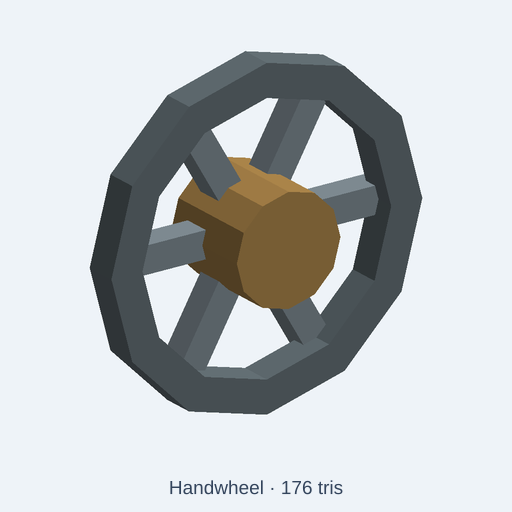
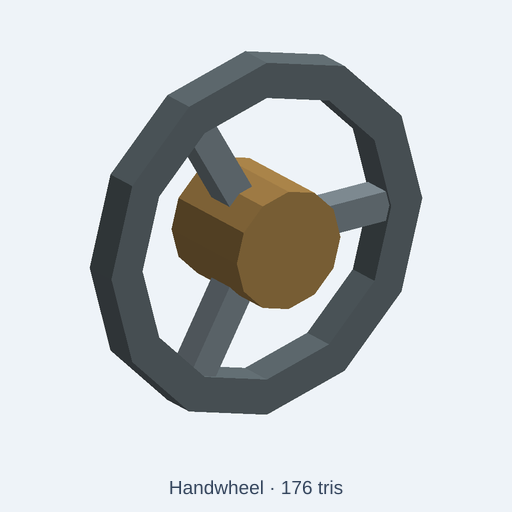
fix(catalog): model three radial handwheel spokes (#1352)

diff --git a/tests/integration/catalog/handwheelFidelity.test.ts b/tests/integration/catalog/handwheelFidelity.test.ts
@@ -1,0 +1,126 @@
+// SPDX-License-Identifier: MIT
+// Count actual radial spokes and verify each joins the hub and rim.
+// Three centered diametral bars are six spokes, not three.
+import { beforeAll, describe, expect, it } from 'vitest';
+import { readFileSync } from 'node:fs';
+import { resolve } from 'node:path';
+import { NodeIO } from '@gltf-transform/core';
+import { initOcct } from '../../../src/kernel/backends/occt/occtBackend';
+import { buildCatalogAssetWithGlb } from '../../../src/agent/catalog/buildCatalog';
+import { runAndExport } from '../../../src/agent/script-runtime/export';
+
+type V = [number, number, number];
+type Tri = [V, V, V];
+const root = resolve(import.meta.dirname, '../../..');
+const sourcePath = 'catalog/kits/standard-components/handwheel.kcad.ts';
+const sub = (a: V, b: V): V => [a[0]-b[0], a[1]-b[1], a[2]-b[2]];
+const dot = (a: V, b: V) => a[0]*b[0]+a[1]*b[1]+a[2]*b[2];
+const cross = (a: V, b: V): V => [a[1]*b[2]-a[2]*b[1], a[2]*b[0]-a[0]*b[2], a[0]*b[1]-a[1]*b[0]];
+function rayHits(tris: Tri[], start: V, direction: V): boolean {
+  return tris.some(tri => {
+    const edge1=sub(tri[1],tri[0]), edge2=sub(tri[2],tri[0]);
+    const p=cross(direction,edge2), determinant=dot(edge1,p);
+    if(Math.abs(determinant)<1e-9)return false;
+    const t=sub(start,tri[0]), u=dot(t,p)/determinant, q=cross(t,edge1);
+    const v=dot(direction,q)/determinant, distance=dot(edge2,q)/determinant;
+    return u>=-1e-7&&v>=-1e-7&&u+v<=1+1e-7&&distance>1e-6&&distance<200;
+  });
+}
+async function readMeshes(glb: Uint8Array, scale: number): Promise<Map<string,Tri[]>> {
+  // Low-poly positions are authored millimetres before scene-axis conversion.
+  const doc=await new NodeIO().readBinary(glb), parts=new Map<string,Tri[]>();
+  for(const node of doc.getRoot().listNodes()) {
+    const mesh=node.getMesh(); if(!mesh)continue;
+    const tris:Tri[]=[];
+    for(const primitive of mesh.listPrimitives()) {
+      const pos=primitive.getAttribute('POSITION')!, indices=primitive.getIndices();
+      const count=indices?indices.getCount():pos.getCount();
+      for(let i=0;i<count;i+=3)tris.push([0,1,2].map(k=>
+        pos.getElement(indices?indices.getScalar(i+k):i+k,[]).map(v=>v/scale) as V
+      ) as Tri);
+    }
+    parts.set(node.getName(),tris);
+  }
+  return parts;
+}
+function components(tris: Tri[]): number {
+  const parent=new Map<string,string>();
+  const find=(key:string):string=>{const p=parent.get(key)!;if(p===key)return key;const r=find(p);parent.set(key,r);return r;};
+  for(const tri of tris) {
+    const keys=tri.map(v=>v.map(x=>x.toFixed(4)).join(','));
+    for(const key of keys)if(!parent.has(key))parent.set(key,key);
+    for(const key of keys.slice(1))parent.set(find(key),find(keys[0]));
+  }
+  return new Set([...parent.keys()].map(find)).size;
+}
+function sample(parts: Map<string,Tri[]>, angle: number, radius: number): boolean {
+  const theta = angle*Math.PI/180;
+  return rayHits([...parts.values()].flat(), [radius*Math.cos(theta),-20,30-radius*Math.sin(theta)],[0,1,0]);
+}
+function verify(parts: Map<string,Tri[]>): void {
+  expect(parts.size).toBe(5);
+  expect([...parts.keys()].filter(name=>name.startsWith('spoke-')).sort()).toEqual(['spoke-0','spoke-120','spoke-240']);
+  const rim = parts.get('rim')!, hub = parts.get('hub')!;
+  expect(rim).toBeDefined(); expect(hub).toBeDefined();
+  expect(components(rim)).toBe(1); expect(components(hub)).toBe(1);
+  for (const angle of [0,120,240]) {
+    const spoke=parts.get(`spoke-${angle}`)!;
+    expect(components(spoke), 'each spoke is one connected solid').toBe(1);
+    const theta=angle*Math.PI/180;
+    for (const radius of [8,16,25]) {
+      const from:V=[radius*Math.cos(theta),-20,30-radius*Math.sin(theta)];
+      expect(rayHits(spoke,from,[0,1,0]),`radial spoke ${angle} reaches radius ${radius}`).toBe(true);
+      if(radius===8)expect(rayHits(hub,from,[0,1,0]),'real radial hub overlap').toBe(true);
+      if(radius===25)expect(rayHits(rim,from,[0,1,0]),'real radial rim overlap').toBe(true);
+    }
+    const ys=spoke.flat().map(v=>v[1]);
+    expect(Math.min(...ys), 'spokes centered axially within rim').toBeCloseTo(-2.5,3);
+    expect(Math.max(...ys)).toBeCloseTo(2.5,3);
+    const volume=Math.abs(spoke.reduce((sum,t)=>sum+dot(t[0],cross(t[1],t[2]))/6,0));
+    expect(volume,'22 x 5 x 5 nominal spoke').toBeCloseTo(550,1);
+  }
+  for (const angle of [60,180,300]) expect(sample(parts,angle,16),`open gap at ${angle} degrees`).toBe(false);
+  const points=[...parts.values()].flat().flat();
+  for (const [axis,lo,hi] of [[0,-30,30],[1,-9,9],[2,0,60]] as const) {
+    expect(Math.min(...points.map(p=>p[axis]))).toBeCloseTo(lo,3);
+    expect(Math.max(...points.map(p=>p[axis]))).toBeCloseTo(hi,3);
+  }
+  // Keep the explicitly labelled hub envelope; do not claim a mounting bore.
+  expect(sample(parts,0,0),'solid hub matches the stated envelope limitation').toBe(true);
+}
+beforeAll(async()=>{await initOcct();},30000);
+describe('illustrative handwheel spoke identity',()=>{
+  for(const [size,scale] of [['standard',1],['compact',0.75],['large',1.25]] as const) {
+    it(`${size}: exactly three radial spokes join the hub and rim`,async()=>{
+      const source=readFileSync(resolve(root,sourcePath),'utf8');
+      const built=await buildCatalogAssetWithGlb(root,sourcePath);
+      const code=source.replace("param('size', 'standard'",`param('size', '${size}'`);
+      const exported=size==='standard'?{bytes:built.glb,diagnostics:[]}:await runAndExport({
+        code,fileName:'handwheel.kcad.ts',scriptDir:resolve(root,'catalog/kits/standard-components'),
+        format:'glb',options:{format:'glb',style:'lowpoly',lowpoly:{maxTriangles:built.asset.triangleBudget}},
+      });
+      expect(exported.diagnostics.filter(d=>d.severity==='error')).toEqual([]);
+      verify(await readMeshes(exported.bytes,scale));
+      expect(built.asset.description).toMatch(/illustrative CC0/i);
+      expect(built.asset.description).toMatch(/three-spoke/i);
+      expect(built.asset.description).toMatch(/no shaft bore/i);
+      expect(built.asset.description).toMatch(/not manufacturer-grade/i);
+      expect(built.asset.stats.triangles).toBeLessThanOrEqual(built.asset.triangleBudget);
+      expect(built.asset.stats.minUpM).toBeCloseTo(0,6);
+    },60000);
+  }
+  it('negative control: the original diametral bars fill all six radial positions',async()=>{
+    const source=readFileSync(resolve(root,sourcePath),'utf8')
+      .replace('[0,120,240]','[0,60,120]')
+      .replace('box(22*s,5*s,5*s,true).translate(16*s,0,0).rotateY(angle).translate(0,0,30*s)',
+        'box(52*s,5*s,5*s,true).rotateY(angle).translate(0,3*s,30*s)');
+    const exported=await runAndExport({code:source,fileName:'original-handwheel.kcad.ts',
+      scriptDir:resolve(root,'catalog/kits/standard-components'),format:'glb',
+      options:{format:'glb',style:'lowpoly',lowpoly:{maxTriangles:340}},
+    });
+    expect(exported.diagnostics.filter(d=>d.severity==='error')).toEqual([]);
+    const parts=await readMeshes(exported.bytes,1);
+    for(const angle of [0,60,120,180,240,300])expect(sample(parts,angle,16)).toBe(true);
+    expect(()=>verify(parts)).toThrow();
+  },60000);
+});

diff --git a/catalog/kits/standard-components/handwheel.kcad.ts b/catalog/kits/standard-components/handwheel.kcad.ts
@@ -3,7 +3,7 @@ meta({
   name: 'handwheel',
   license: 'CC0-1.0',
   title: 'Handwheel',
-  description: 'Three-spoke handwheel with a raised center hub and a clear circular rim Knobs: model size, steel, cast iron, brass.',
+  description: 'Illustrative CC0 three-spoke handwheel with a raised solid hub envelope and an open circular rim. Not manufacturer-grade CAD: no shaft bore, keyway, tolerances or torque rating. Knobs change model size and colors only.',
   tags: ['handwheel', 'control wheel', 'valve wheel', 'machine control'],
   kit: 'standard-components',
   category: 'attachment',
@@ -27,5 +27,6 @@ const a = assembly('handwheel');
 const rim=cylinder(6*s,30*s,16).subtract(cylinder(8*s,24*s,16).translate(0,0,-s));
 a.part('rim',rim.rotateX(90).translate(0,3*s,30*s).color(castIron));
 a.part('hub',cylinder(18*s,10*s,12).rotateX(90).translate(0,9*s,30*s).color(brass));
-for (const angle of [0,60,120]) a.part(`spoke-${angle}`,box(52*s,5*s,5*s,true).rotateY(angle).translate(0,3*s,30*s).color(steel));
+// Each radial spoke overlaps the hub and rim; centered full-width bars make six spokes.
+for (const angle of [0,120,240]) a.part(`spoke-${angle}`,box(22*s,5*s,5*s,true).translate(16*s,0,0).rotateY(angle).translate(0,0,30*s).color(steel));
 return a.model();

diff --git a/docs/quality/handwheel-2026-11-12.md b/docs/quality/handwheel-2026-11-12.md
@@ -1,0 +1,39 @@
+# Handwheel: three radial spokes, not three diametral bars
+
+12 November 2026. Repairs the identity mismatch in issue #1350. This remains an illustrative CC0 prop, not manufacturer-grade CAD. The solid hub is explicitly an envelope: it has no shaft bore, keyway, vendor interface, tolerance or torque rating.
+
+## Geometry change
+The original model uses three centered full-width bars at 0°, 60°, 120°. Each bar extends on both sides of the hub, so the result has six radial spokes despite its description promising three.
+
+The repair uses three single radial bars at 0°, 120°, 240°. Each nominal 22×5×5 mm bar spans radii 5 to 27 mm and is centered axially on the rim. This gives real overlap with the 10 mm-radius hub and the 24–30 mm-radius rim. The overall 60 mm diameter, 18 mm hub depth, original colors and three size presets are unchanged.
+
+![Native before/after iso, front and rear views](evidence/handwheel-20261112/before-after.png)
+
+Before is the top row. After is the bottom row. The repaired front view has exactly three radial connections and three open sectors. The six-second [native comparison](evidence/handwheel-20261112/native-comparison.mp4) shows before/after end views, not motion or hardware tests. Both exports contain 176 triangles, below the unchanged 340-triangle budget. These are deterministic OCCT-to-GLB software renders, not WebGL/browser-renderer acceptance.
+
+## Native acceptance
+`tests/integration/catalog/handwheelFidelity.test.ts` verifies all three supported scales: 0.75, 1, 1.25.
+
+- Three radial spokes and three open sectors, measured using mesh ray intersections, not merely names.
+- Each spoke is a connected solid with overlap at the hub and rim and ±2.5 mm nominal axial bounds.
+- Spoke volume is 550 mm³ nominal; overall bounds remain 60×18×60 mm.
+- Five named mesh parts remain. Rim and hub are connected solids.
+- Solid-hub test matches the explicit envelope limitation.
+- Original-source negative control hits all six spoke positions and fails the corrected acceptance.
+
+Original: 3 positive cases fail and 1 negative-control case passes. Repair: 4/4 geometry tests plus 4/4 existing asset-module tests pass. Targeted ESLint and all 2,402 bundled index/source hashes pass. Full native catalog-index CI is a separate merge gate.
+
+```sh
+NODE_OPTIONS=--max-old-space-size=2048 node node_modules/vitest/vitest.mjs run \
+  tests/integration/catalog/handwheelFidelity.test.ts \
+  tests/integration/catalog/assetModule.test.ts \
+  --maxWorkers=1 --no-file-parallelism
+node node_modules/eslint/bin/eslint.js \
+  tests/integration/catalog/handwheelFidelity.test.ts \
+  catalog/kits/standard-components/handwheel.kcad.ts
+```
+
+Node 24.22.2; reused dependencies; one worker; 2 GiB heap. Fresh isolated worktree from `c3a9c65c1e2bb5e3c816868d4b501f609f6eb94b`. The root partition was used because /data had only 7.5 GiB free with concurrent CI. No other worktree or active implementation was modified.
+
+## Release gate
+Require review and exact-head repository checks before normal merge. Verify actual marketing upload, cache purge, live source and both PNG routes against this commit. Rerun the geometry acceptance against the downloaded live source. Do not infer deployment, manufacturer-grade geometry or product UI repairs from a successful source test.
